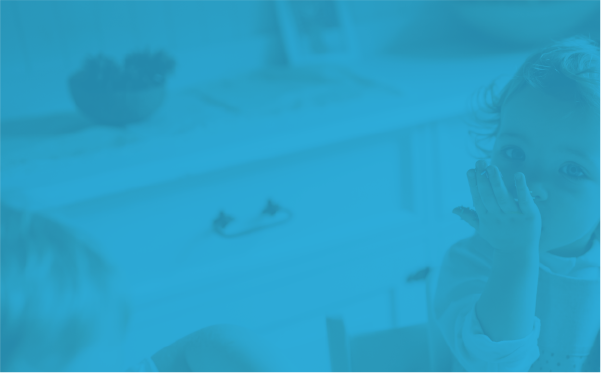
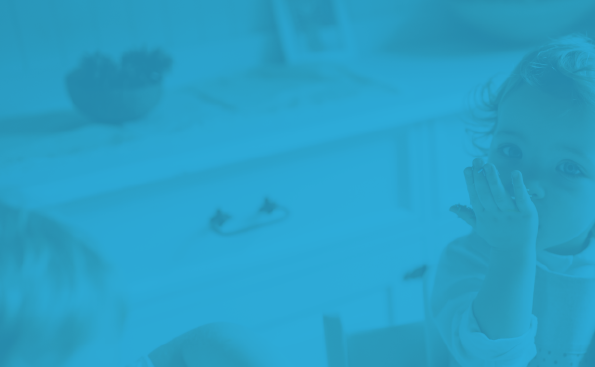
Add general fixes

Changed region(s): [[0.0, 0.0, 1.0, 1.0], [0.8168, 0.8992, 0.8471, 0.9292]]

diff --git a/src/pages/index.html b/src/pages/index.html
@@ -27,7 +27,9 @@ subject: Newsetter Hogar María Luisa
 
 <container class="hero-container" cellpadding="0" cellspacing="0">
   <row class="hero-row">
+    <columns large="12">
       <img src="https://amplifica.com.ar/proyectos/hml/01/assets/img/_custom.png" alt="">
+    </columns>
   </row>
 </container>
 
@@ -151,7 +153,7 @@ subject: Newsetter Hogar María Luisa
   <row>
     <columns large="1"></columns>
     <columns large= "3">
-      <img src="https://amplifica.com.ar/proyectos/hml/01/asstes/img/hands-icon.png" alt="">
+      <img src="https://amplifica.com.ar/proyectos/hml/01/assets/img/hands-icon.png" alt="">
     </columns>
 
     <columns large="7">

diff --git a/src/assets/scss/_custom.scss b/src/assets/scss/_custom.scss
@@ -62,9 +62,10 @@ $sizes: 5, 10, 15, 20, 25, 30, 35, 40, 45, 50;
 .hero-row{
     th{
         padding: 0px !important;
-        @media(max-width: 768px){
-            padding: 0px !important;
-        }
+    }
+
+    table > tbody > tr > td {
+        padding: 0px !important;
     }
 }
 
